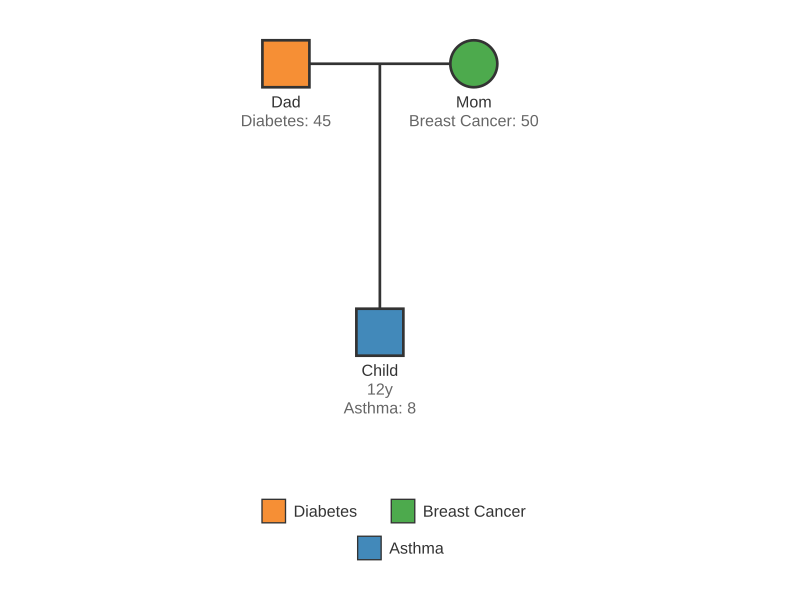
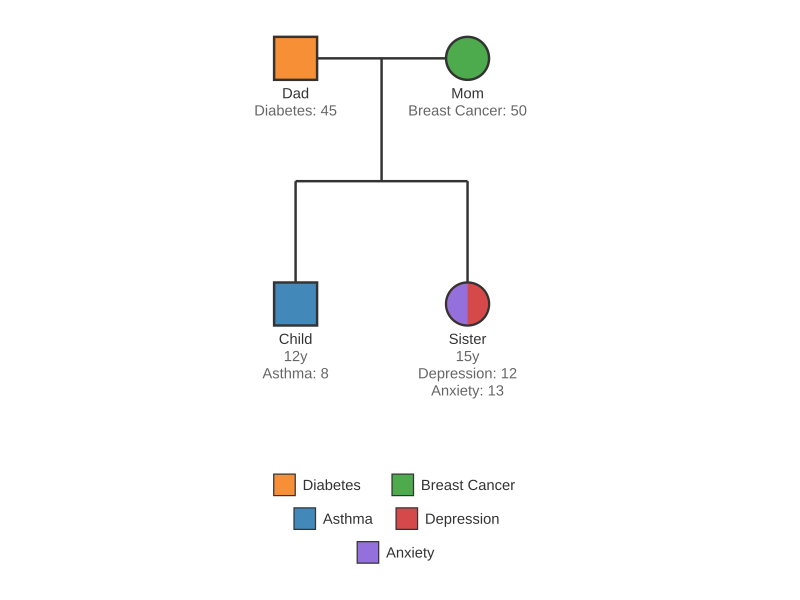
fix(ectopic): implement Bennett 2008 spec - slash through triangle symbol
PROBLEM:
- Ectopic pregnancy was shown as "EP" text label below symbol
- This conflicted with multi-line condition labels
- Did not match Bennett 2008 standard specification

SOLUTION:
- Ectopic now shown as diagonal red slash through termination triangle
- No separate text label (eliminates placement conflict)
- Slash is part of the symbol itself via drawTerminationSymbol()

CHANGES:
- drawing.ts: Added ectopic parameter to drawTerminationSymbol()
- drawing.ts: Removed obsolete drawEctopicIndicator() function
- pedigree-renderer.ts: Pass ectopic flag to drawTerminationSymbol()
- pedigree-renderer.ts: Skip "ECT" label for ectopic outcomes
- pedigree-renderer.ts: Removed drawEctopicIndicator import
- tests: Updated TDD test to verify slash line, not text label
- examples: Updated scenario 09 with proper ectopic properties

BENNETT 2008 REFERENCE:
"Ectopic pregnancy: Triangle with forward slash"
Source: Bennett et al. 2008, NSGC Practice Guidelines

TEST RESULTS:
- All 157 tests passing
- TDD test verifies diagonal slash line exists
- TDD test verifies no "EP" or "ECT" text labels

Resolves placement conflict with multi-line condition labels.

Changed region(s): [[0.3125, 0.06, 0.6875, 0.69], [0.3125, 0.78, 0.6562, 0.96]]

diff --git a/examples/generate-all-scenarios.ts b/examples/generate-all-scenarios.ts
@@ -89,7 +89,7 @@ async function main() {
     // 9. Special Indicators
     await generateScenario('09-special-indicators', [
         { name: 'Ashkenazi', sex: 'M', top_level: true, ashkenazi: 1, age: 55 },
-        { name: 'Ectopic', sex: 'F', top_level: true, ectopic: true, age: 30 },
+        { name: 'Ectopic', sex: 'F', top_level: true, terminated: true, ectopic: true, pregnancy_outcome: 'ectopic', age: 30 },
         { name: 'Infertility', sex: 'M', top_level: true, infertility: true, age: 45 },
         { name: 'Anticipation', sex: 'F', top_level: true, anticipation: true, age: 50 },
     ]);
@@ -160,11 +160,16 @@ async function main() {
         { name: 'Child', sex: 'F', mother: 'Ex Wife', father: 'Ex Husband', age: 18 },
     ]);
 
-    // 19. Conditions with Legend
+    // 19. Conditions with Legend (single and multiple conditions)
     await generateScenario('19-conditions', [
         { name: 'Dad', sex: 'M', top_level: true, conditions: [{ name: 'Diabetes', age: 45 }] },
         { name: 'Mom', sex: 'F', top_level: true, conditions: [{ name: 'Breast Cancer', age: 50 }] },
         { name: 'Child', sex: 'M', mother: 'Mom', father: 'Dad', conditions: [{ name: 'Asthma', age: 8 }], age: 12 },
+        // Multiple conditions on one individual (shows quadrants for male, pie slices for female)
+        { name: 'Sister', sex: 'F', mother: 'Mom', father: 'Dad', age: 15, conditions: [
+            { name: 'Depression', age: 12 },
+            { name: 'Anxiety', age: 13 }
+        ]},
     ]);
 
     // 20. Gene Tests
@@ -219,8 +224,10 @@ async function main() {
         { name: 'Youngest', sex: 'M', mother: 'Mother2', father: 'Father', birth_order: 5, age: 5 },
 
         // Generation 4: Next generation (showing anticipation and prenatal testing)
-        { name: 'Grandchild1', sex: 'F', mother: 'Child1', top_level: true, consultand: true, age: 8, anticipation: true },
-        { name: 'Grandchild2', sex: 'U', mother: 'Cousin3', top_level: true, terminated: true, pregnancy_outcome: 'induced_termination' },
+        { name: 'Grandchild1', sex: 'F', mother: 'Child1', father: 'Partner1', consultand: true, age: 8, anticipation: true },
+        { name: 'Partner1', sex: 'M', top_level: true },
+        { name: 'Grandchild2', sex: 'U', mother: 'Cousin3', father: 'Partner2', terminated: true, pregnancy_outcome: 'induced_termination' },
+        { name: 'Partner2', sex: 'M', top_level: true },
     ], { labels: ['age', 'generation'] });
 
     console.log(`\n✅ Generated 21 scenario diagrams in ${outputDir}`);

diff --git a/tests/pedigree-renderer.test.ts b/tests/pedigree-renderer.test.ts
@@ -2205,21 +2205,52 @@ describe('PedigreeRenderer', () => {
             expect(rightBrackets.length).toBeGreaterThanOrEqual(1);
         });
 
-        it('should render ectopic pregnancy indicator with EP marker', () => {
+        it('should render ectopic pregnancy as triangle with diagonal slash (TDD)', () => {
             const dataset: Individual[] = [
                 {
                     name: 'ectopic',
                     sex: 'F',
                     top_level: true,
+                    terminated: true, // Ectopic pregnancies are terminated
                     ectopic: true,
+                    pregnancy_outcome: 'ectopic',
                 },
             ];
 
             const renderer = new PedigreeRenderer(dataset) as any;
             const svg = renderer.renderSvg();
 
-            // Should have "EP" text marker
-            expect(svg).toContain('>EP<');
+            // Should have a triangle (polygon)
+            expect(svg).toContain('<polygon');
+
+            // Should have a diagonal slash line through the triangle
+            // The slash should be a line element with both dx and dy (diagonal)
+            const lineRegex = /<line[^>]*x1="([^"]*)"[^>]*y1="([^"]*)"[^>]*x2="([^"]*)"[^>]*y2="([^"]*)"[^>]*>/g;
+            const lines: Array<{ x1: number; y1: number; x2: number; y2: number }> = [];
+            let match;
+            while ((match = lineRegex.exec(svg)) !== null) {
+                lines.push({
+                    x1: parseFloat(match[1]),
+                    y1: parseFloat(match[2]),
+                    x2: parseFloat(match[3]),
+                    y2: parseFloat(match[4]),
+                });
+            }
+
+            // Find diagonal lines (slash through symbol)
+            const diagonalLines = lines.filter(line => {
+                const dx = Math.abs(line.x2 - line.x1);
+                const dy = Math.abs(line.y2 - line.y1);
+                // Diagonal line has both horizontal and vertical components
+                return dx > 5 && dy > 5;
+            });
+
+            // Should have at least one diagonal slash line
+            expect(diagonalLines.length).toBeGreaterThanOrEqual(1);
+
+            // Should NOT have "EP" or "ECT" text label
+            expect(svg).not.toContain('>EP<');
+            expect(svg).not.toContain('>ECT<');
         });
 
         it('should render infertility indicator with crossed lines', () => {

diff --git a/src/renderer/pedigree-renderer.ts b/src/renderer/pedigree-renderer.ts
@@ -36,7 +36,6 @@ import {
     drawConsultandIndicator,
     drawAnticipationIndicator,
     drawObligateCarrierIndicator,
-    drawEctopicIndicator,
     drawInfertilityIndicator,
     drawPregnancyDurationLabel,
     drawPregnancyOutcomeLabel,
@@ -1288,7 +1287,8 @@ export class PedigreeRenderer {
             // Draw symbol based on sex (or termination triangle per Bennett standard)
             if (ind.terminated) {
                 // Bennett standard: triangle size varies by gestational age
-                drawTerminationSymbol(g as any, symbolSize, nodeBackground, ind.terminated_age);
+                // Ectopic pregnancies shown with forward slash through triangle
+                drawTerminationSymbol(g as any, symbolSize, nodeBackground, ind.terminated_age, ind.ectopic);
             } else if (ind.sex === 'M') {
                 drawMaleSymbol(
                     g as any,
@@ -1351,8 +1351,9 @@ export class PedigreeRenderer {
             if (ind.pregnant) {
                 drawPregnancyIndicator(g as any, fontFamily, fontSize);
             }
-            // Bennett standard: pregnancy outcome label (SAB, TOP, ECT, SB)
-            if (ind.pregnancy_outcome && ind.pregnancy_outcome !== 'unknown') {
+            // Bennett standard: pregnancy outcome label (SAB, TOP, SB)
+            // Note: Ectopic is shown via slash through triangle symbol, not text label
+            if (ind.pregnancy_outcome && ind.pregnancy_outcome !== 'unknown' && ind.pregnancy_outcome !== 'ectopic') {
                 drawPregnancyOutcomeLabel(g as any, ind.pregnancy_outcome, symbolSize, fontFamily);
             }
             // Bennett standard: ART (Assisted Reproductive Technology) indicator
@@ -1371,10 +1372,7 @@ export class PedigreeRenderer {
             if (ind.anticipation) {
                 drawAnticipationIndicator(g as any, symbolSize, fontFamily);
             }
-            // Bennett standard: ectopic pregnancy (EP marker)
-            if (ind.ectopic) {
-                drawEctopicIndicator(g as any, symbolSize, fontFamily);
-            }
+            // Note: Ectopic pregnancy is now shown as slash through termination triangle (see drawTerminationSymbol)
             // Bennett standard: infertility (crossed lines)
             if (ind.infertility) {
                 drawInfertilityIndicator(g as any, symbolSize);

diff --git a/src/renderer/drawing.ts b/src/renderer/drawing.ts
@@ -662,6 +662,7 @@ export function drawTerminationSymbol(
     symbolSize: number,
     nodeBackground: string,
     gestationalWeeks?: number,
+    ectopic?: boolean,
 ): void {
     // Size varies based on gestational age
     // Early loss (<20 weeks): small triangle
@@ -674,6 +675,17 @@ export function drawTerminationSymbol(
         .attr('fill', nodeBackground)
         .attr('stroke', '#333')
         .attr('stroke-width', 2);
+
+    // Bennett 2008: Ectopic pregnancy shown as triangle with forward slash
+    if (ectopic) {
+        g.append('line')
+            .attr('x1', -half * 0.6)
+            .attr('y1', half * 0.6)
+            .attr('x2', half * 0.6)
+            .attr('y2', -half * 0.6)
+            .attr('stroke', '#D5494A')
+            .attr('stroke-width', 2);
+    }
 }
 
 /**
@@ -764,27 +776,6 @@ export function drawObligateCarrierIndicator(g: GroupSelection): void {
         .attr('fill', 'none')
         .attr('stroke', '#333')
         .attr('stroke-width', 2);
-}
-
-/**
- * Draw ectopic pregnancy indicator (EP marker)
- * Bennett standard: "EP" text marker for ectopic pregnancy
- */
-export function drawEctopicIndicator(
-    g: GroupSelection,
-    symbolSize: number,
-    fontFamily: string,
-): void {
-    const yOffset = symbolSize * 1.5 + 5; // Well below symbol and labels
-    g.append('text')
-        .attr('x', 0)
-        .attr('y', yOffset)
-        .attr('text-anchor', 'middle')
-        .attr('font-family', fontFamily)
-        .attr('font-size', '9px')
-        .attr('font-weight', 'bold')
-        .attr('fill', '#D5494A') // Red for medical condition
-        .text('EP');
 }
 
 /**
